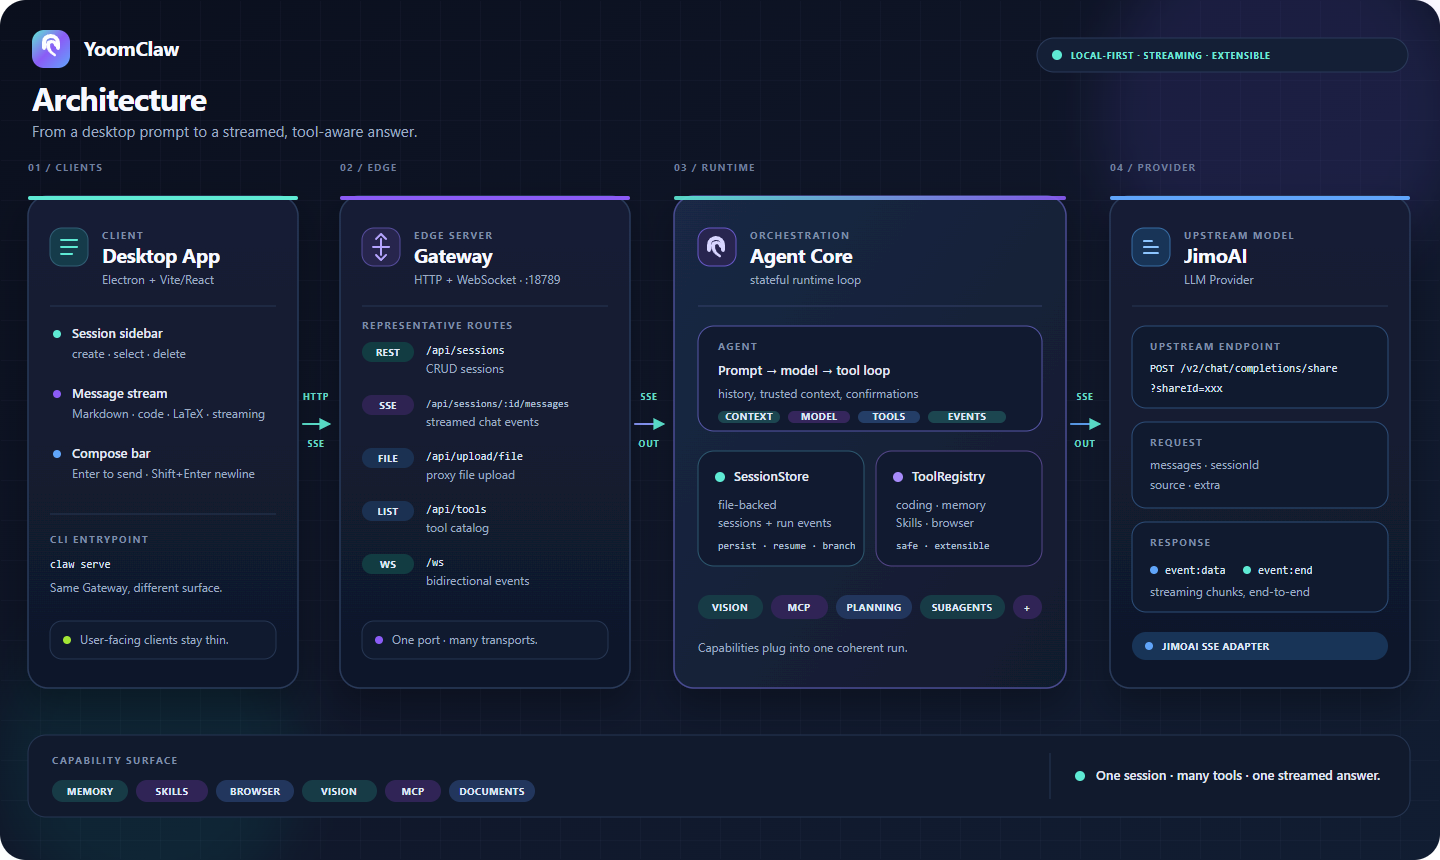
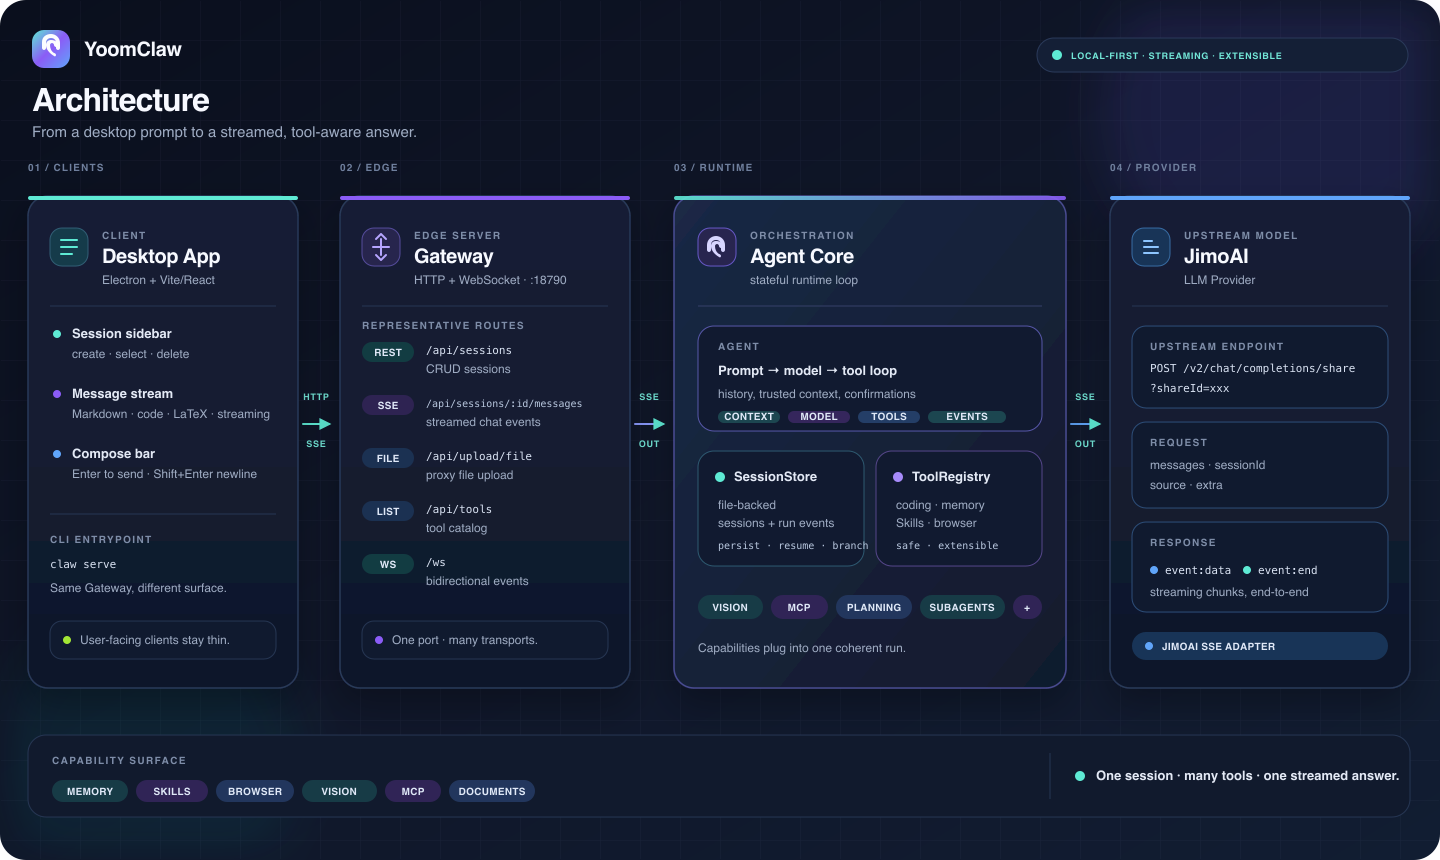
fix mac bugs for file path copy

diff --git a/apps/desktop/renderer/src/components/ComposeBar.tsx b/apps/desktop/renderer/src/components/ComposeBar.tsx
@@ -385,6 +385,34 @@ export default function ComposeBar({ onSend, onStop, disabled, ready = true, cre
     setAttachments((prev) => prev.filter((_, i) => i !== index));
   };
 
+  const convertPathToText = (index: number) => {
+    const attachment = attachments[index];
+    const localPath = attachment?.path;
+    if (!localPath) return;
+
+    const textarea = textareaRef.current;
+    const start = textarea?.selectionStart ?? text.length;
+    const end = textarea?.selectionEnd ?? start;
+    const before = text.slice(0, start);
+    const after = text.slice(end);
+    const prefix = before && !/\s$/u.test(before) ? " " : "";
+    const suffix = after && !/^\s/u.test(after) ? " " : "";
+    const inserted = `${prefix}${localPath}${suffix}`;
+    const nextText = `${before}${inserted}${after}`;
+    const nextCaret = before.length + inserted.length;
+
+    setText(nextText);
+    removeAttachment(index);
+    window.requestAnimationFrame(() => {
+      const current = textareaRef.current;
+      if (!current) return;
+      current.focus();
+      current.setSelectionRange(nextCaret, nextCaret);
+      current.style.height = "auto";
+      current.style.height = Math.min(current.scrollHeight, 200) + "px";
+    });
+  };
+
   const canSend = (text.trim() || attachments.length > 0) && !disabled && ready && !streaming && !submitting;
 
   return (
@@ -403,6 +431,17 @@ export default function ComposeBar({ onSend, onStop, disabled, ready = true, cre
             <span className="attach-chip" data-testid="attachment-chip" data-attachment-index={i} key={`${attachment.file.name}-${i}`} title={attachment.path ?? attachment.file.name} style={{ animationDelay: `${Math.min(i, 5) * 24}ms` }}>
               <span className="attach-name">{attachment.file.name}</span>
               <span className="attach-size">{attachment.pathOnly ? "仅路径" : formatSize(attachment.file.size)}</span>
+              {attachment.pathOnly && attachment.path && (
+                <button
+                  type="button"
+                  className="attach-as-text"
+                  onClick={() => convertPathToText(i)}
+                  aria-label={`将 ${attachment.file.name} 的路径转为文字`}
+                  title="将完整路径放入输入框"
+                >
+                  转文字
+                </button>
+              )}
               <button
                 type="button"
                 className="attach-remove"
@@ -644,6 +683,20 @@ export default function ComposeBar({ onSend, onStop, disabled, ready = true, cre
         .attach-size {
           font-size: 10.5px;
           color: var(--text-muted);
+        }
+        .attach-as-text {
+          border: none;
+          border-radius: 999px;
+          padding: 2px 7px;
+          background: color-mix(in srgb, var(--primary) 13%, transparent);
+          color: var(--primary);
+          font-size: 10.5px;
+          line-height: 1.4;
+          white-space: nowrap;
+          cursor: pointer;
+        }
+        .attach-as-text:hover {
+          background: color-mix(in srgb, var(--primary) 22%, transparent);
         }
         .attach-remove {
           width: 18px;

diff --git a/apps/desktop/renderer/src/components/WorkbenchPanel.tsx b/apps/desktop/renderer/src/components/WorkbenchPanel.tsx
@@ -97,7 +97,7 @@ function FileBrowser({ initialPath = "." }: { initialPath?: string }) {
     const treeRequestId = ++treeRequestRef.current;
     previewRequestRef.current += 1;
     setError(null);
-    void fetch(`http://localhost:18789/api/workspace/tree?path=${encodeURIComponent(relativePath)}`)
+    void fetch(`http://127.0.0.1:18790/api/workspace/tree?path=${encodeURIComponent(relativePath)}`)
       .then(async (response) => {
         const payload = await response.json() as { entries?: WorkspaceEntry[]; error?: string };
         if (!response.ok) throw new Error(payload.error ?? "无法读取工作区");
@@ -123,7 +123,7 @@ function FileBrowser({ initialPath = "." }: { initialPath?: string }) {
     }
     const requestId = ++previewRequestRef.current;
     setError(null);
-    void fetch(`http://localhost:18789/api/workspace/file?path=${encodeURIComponent(nextPath)}`)
+    void fetch(`http://127.0.0.1:18790/api/workspace/file?path=${encodeURIComponent(nextPath)}`)
       .then(async (response) => {
         const payload = await response.json() as { path?: string; content?: string; error?: string };
         if (!response.ok) throw new Error(payload.error ?? "无法预览文件");
@@ -205,7 +205,7 @@ function GitPanel() {
 
   useEffect(() => {
     let alive = true;
-    void fetch("http://localhost:18789/api/workspace/git")
+    void fetch("http://127.0.0.1:18790/api/workspace/git")
       .then((response) => response.json() as Promise<{ available: boolean; branch: string; status: string; diff: string; error?: string }>)
       .then((payload) => { if (alive) setGit(payload); })
       .catch((reason) => {

diff --git a/apps/desktop/renderer/vite.config.ts b/apps/desktop/renderer/vite.config.ts
@@ -2,7 +2,7 @@ import { defineConfig } from "vite";
 import react from "@vitejs/plugin-react";
 
 // React 插件 + styled-jsx Babel 插件（聊天组件用 <style jsx>）。
-// 渲染器直连同机 Gateway（http://localhost:18789），不经代理。
+// 渲染器直连同机 Gateway（http://127.0.0.1:18790），不经代理。
 export default defineConfig({
   // The packaged Electron renderer is loaded with file:// via loadFile().
   // Relative asset URLs are required there; absolute /assets URLs resolve

diff --git a/packages/gateway/src/index.ts b/packages/gateway/src/index.ts
@@ -1591,7 +1591,7 @@ export function startGateway(config?: Partial<GatewayConfig>): Gateway {
   const env = process.env;
   const finalConfig: GatewayConfig = {
     host: config?.host ?? env.GATEWAY_HOST ?? "127.0.0.1",
-    port: config?.port ?? Number(env.GATEWAY_PORT ?? 18789),
+    port: config?.port ?? Number(env.GATEWAY_PORT ?? 18790),
     workspace: config?.workspace ?? env.YOOMCLAW_WORKSPACE ?? env.CLAW_WORKSPACE ?? process.cwd(),
     agentConfig: config?.agentConfig ?? {
       provider: "jimo",

diff --git a/apps/desktop/renderer/src/components/settings/AgentSettings.tsx b/apps/desktop/renderer/src/components/settings/AgentSettings.tsx
@@ -1,7 +1,7 @@
 import { useCallback, useEffect, useRef, useState } from "react";
 import { SettingLabel, SettingRow, Toggle } from "./controls";
 
-const GATEWAY_URL = "http://localhost:18789";
+const GATEWAY_URL = "http://127.0.0.1:18790";
 const TOOLSETS = [
   { id: "coding", label: "编程", term: "Coding", hint: "读写工作区并完成代码修改。" },
   { id: "memory", label: "记忆", term: "Memory", hint: "读取和保存项目及用户的长期记忆。" },

diff --git a/apps/desktop/renderer/src/components/ChatPage.tsx b/apps/desktop/renderer/src/components/ChatPage.tsx
@@ -44,7 +44,7 @@ import {
   InfoIcon,
 } from "./icons";
 
-const GATEWAY_URL = "http://localhost:18789";
+const GATEWAY_URL = "http://127.0.0.1:18790";
 const SAFETY_MODE_KEY = "yoomclaw-safety-mode";
 const SIDEBAR_WIDTH_KEY = "yoomclaw-sidebar-width";
 const DEFAULT_SIDEBAR_WIDTH = 264;
@@ -2406,5 +2406,5 @@ function wsUrl(apiBase: string): string {
       /* fallthrough */
     }
   }
-  return "ws://localhost:18789/ws";
+  return "ws://127.0.0.1:18790/ws";
 }

diff --git a/apps/cli/src/index.ts b/apps/cli/src/index.ts
@@ -27,7 +27,7 @@ Environment variables (see .env.example):
   JIMO_API_BASE_URL   JimoAI base URL
   JIMO_SHARE_ID       JimoAI share ID
   JIMO_AUTHORIZATION  JimoAI auth token
-  GATEWAY_PORT        Gateway port (default 18789)
+  GATEWAY_PORT        Gateway port (default 18790)
   GATEWAY_HOST        Gateway host (default 127.0.0.1)
 `);
 }

diff --git a/IMPLEMENTATION.md b/IMPLEMENTATION.md
@@ -9,7 +9,7 @@
 Next.js WebChat (:3000)
    │  WebSocket /ws  (chat.event 流 + tool.decision 确认)
    ▼
-Gateway (:18789, node:http + ws)
+Gateway (:18790, node:http + ws)
    │  Agent.run() 生成器 → AgentEvent 流
    ▼
 Agent Core (ReAct 循环)
@@ -50,11 +50,11 @@ JimoProvider (积墨 SSE)  ──  sandbox.ts 路径沙箱 + judgeCommand 命令
 ```bash
 # 仓库根目录，确保 .env 含 JIMO_SHARE_ID / JIMO_AUTHORIZATION / JIMO_API_BASE_URL
 .\start-dev.ps1
-# Gateway:  http://127.0.0.1:18789
+# Gateway:  http://127.0.0.1:18790
 # WebChat:  http://localhost:3000
 ```
 
-前端直连 Gateway（`NEXT_PUBLIC_GATEWAY_URL=http://127.0.0.1:18789`），不经 Next 代理，
+前端直连 Gateway（`NEXT_PUBLIC_GATEWAY_URL=http://127.0.0.1:18790`），不经 Next 代理，
 避免 rewrite 缓冲 SSE/WS。
 
 ## 遗留事项
